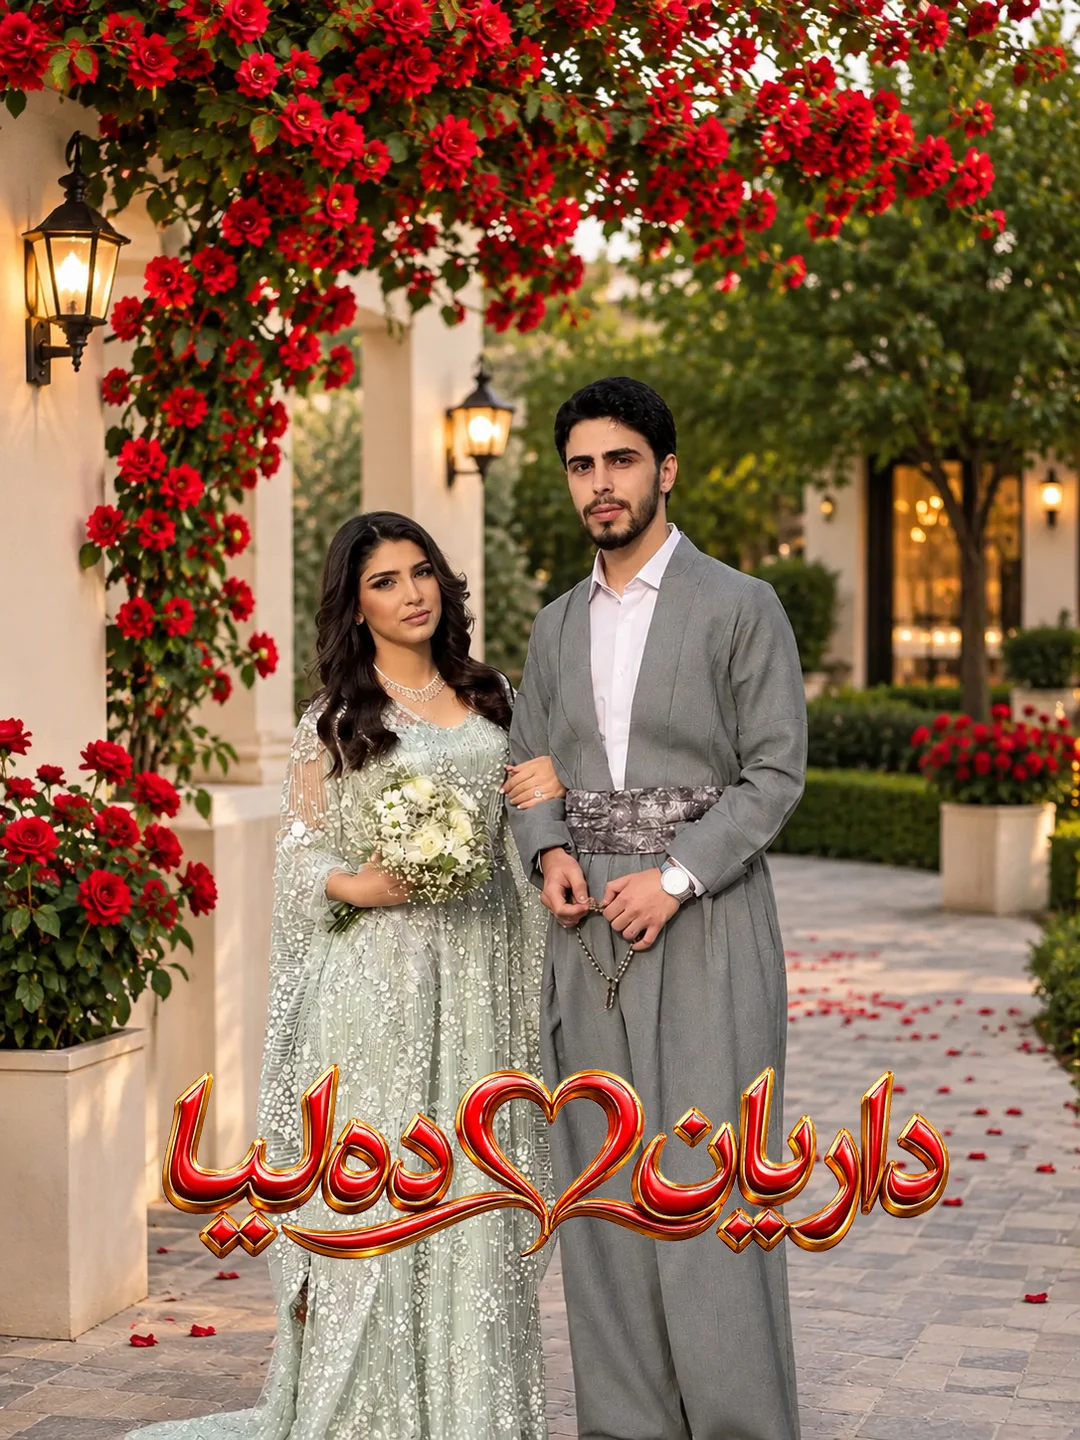
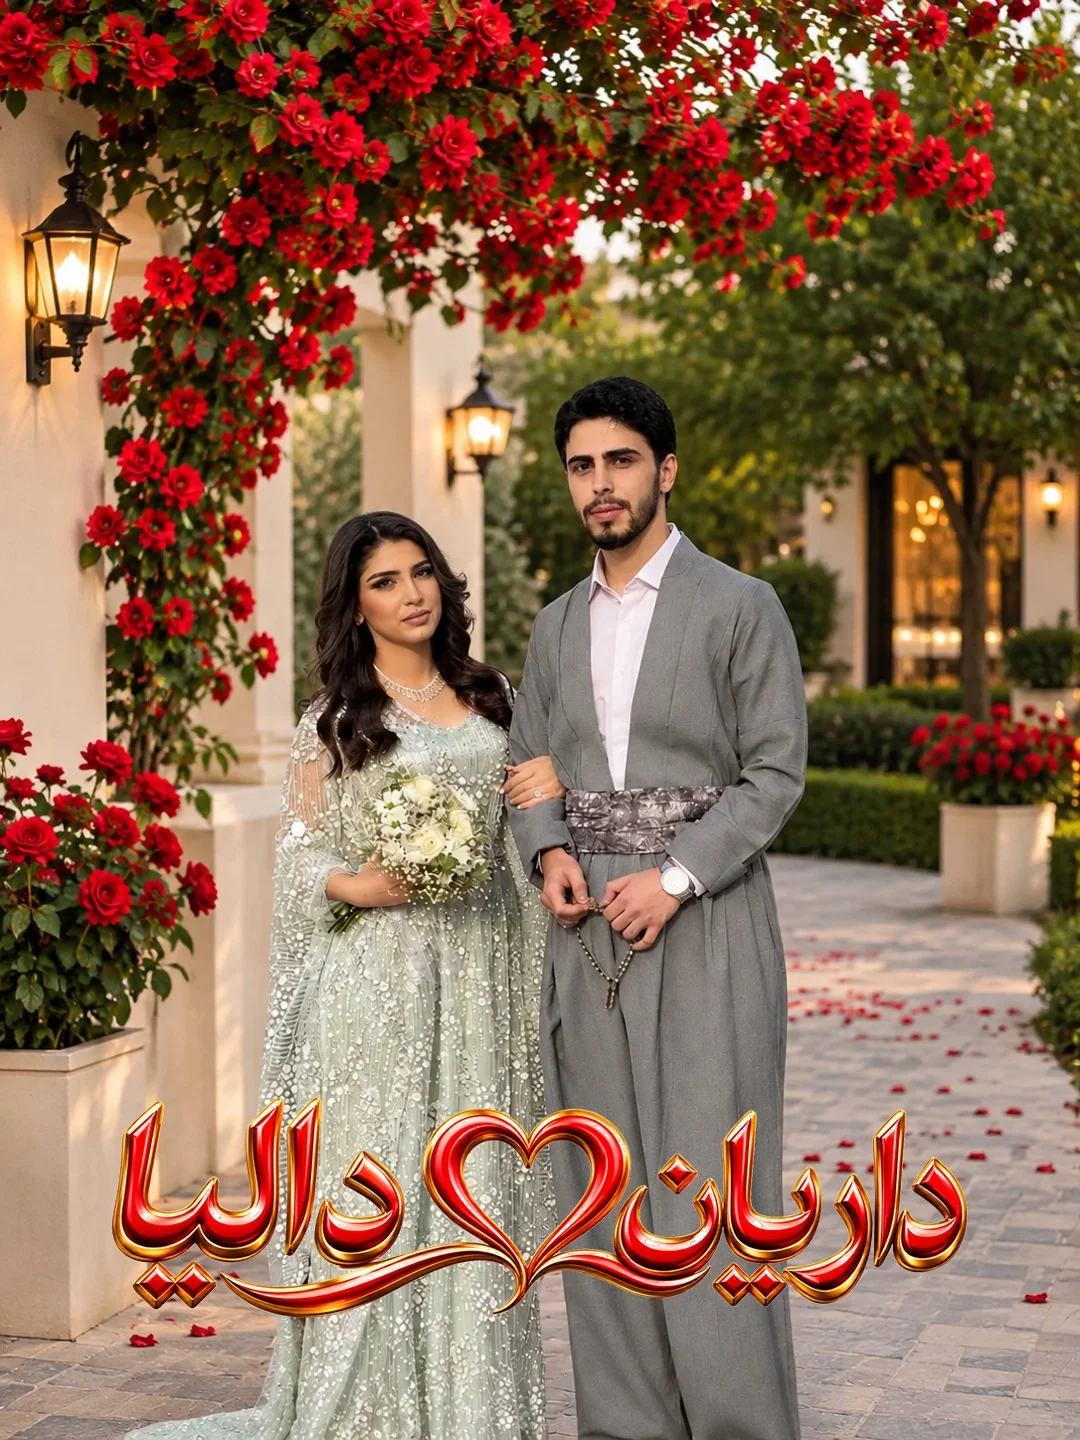
Update invitation photo with new master image and responsive variants

Changed region(s): [[0.0917, 0.7188, 0.9167, 0.9375]]

diff --git a/style.css b/style.css
@@ -503,11 +503,9 @@ main.site.is-revealed {
 .invitation-card__img {
   position: relative;
   display: block;
-  width: min(88vw, 440px);
+  width: min(88vw, 390px);
   height: auto;
   aspect-ratio: 1080 / 1440;
-  max-height: 520px;
-  object-fit: cover;
   border-radius: clamp(12px, 3vw, 20px);
   box-shadow:
     0 16px 44px rgba(0, 0, 0, 0.88),
